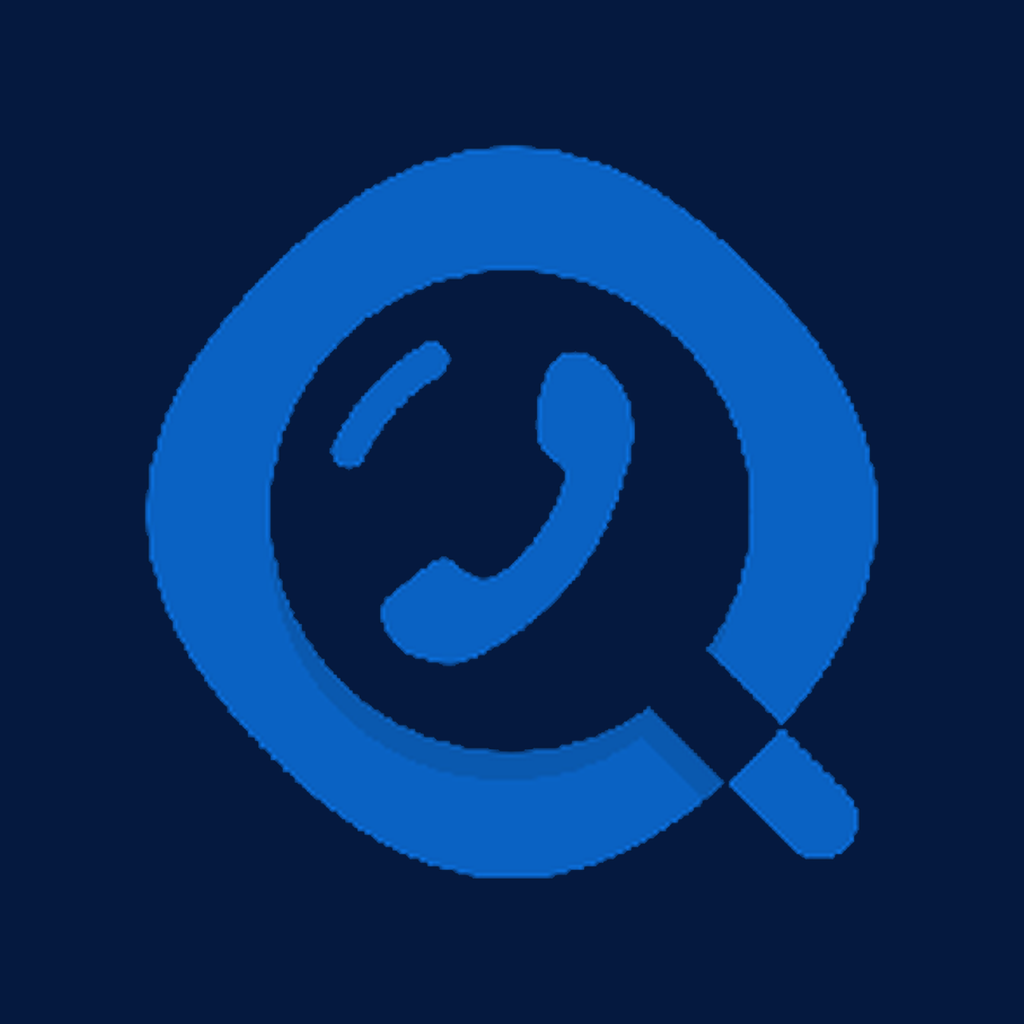
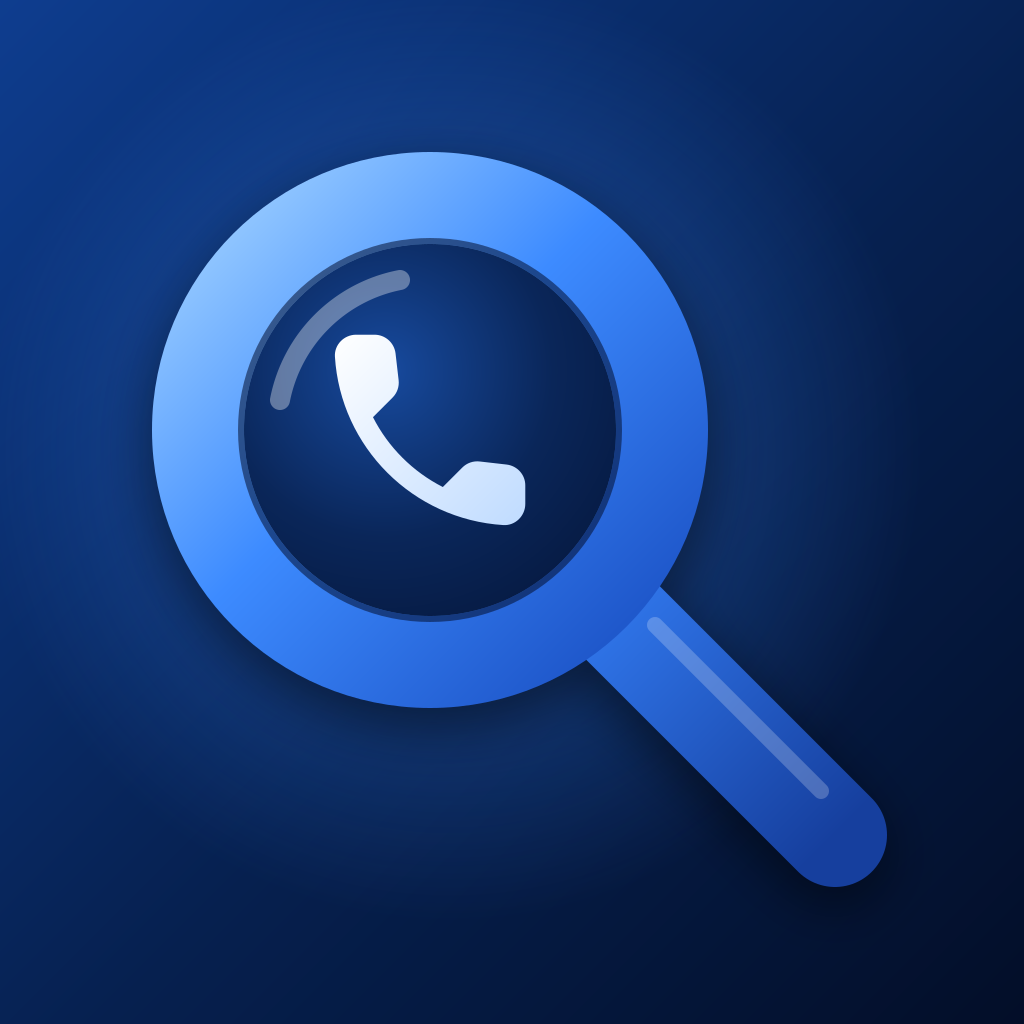
Yangi ikonka va yuklash ekrani (vektordan, yuqori sifat)
- tool/make_icons.py: lupa + go'shak belgisini SVG'dan 1024px ga yasaydi
- iOS: icon_ios.png (RGB, shaffofliksiz)
- Android: adaptiv ikonka uchun alohida old qatlam va gradient fon
- splash_logo.png: Inter shrifti, fon #05193F bilan bir xil

Claude-Session: https://claude.ai/code/session_01C6ioWyqxUh5f1tL6mQytvS

diff --git a/tool/make_icons.py b/tool/make_icons.py
@@ -1,0 +1,201 @@
+#!/usr/bin/env python3
+"""Ilova ikonkalari va yuklash ekrani rasmini vektordan yasaydi.
+
+Ishlatish (loyiha ildizidan):
+    pip install cairosvg pillow
+    python3 tool/make_icons.py
+
+Natija (assets/):
+    icon_ios.png        1024x1024, RGB — iOS ikonkasi (shaffofliksiz)
+    icon.png            1024x1024, RGB — Android oddiy ikonkasi
+    icon_android_fg.png 1024x1024, RGBA — Android adaptiv ikonkasi (old qatlam)
+    icon_android_bg.png 1024x1024, RGB — Android adaptiv ikonkasi (fon)
+    splash_logo.png     1024x1024, RGB — yuklash ekrani (fon #05193F)
+
+Belgi: lupa ichida telefon go'shagi. Go'shak shakli Material Icons
+("call", rounded) dan olingan — Apache 2.0 litsenziyasi.
+"""
+
+import io
+import os
+import sys
+
+import cairosvg
+from PIL import Image, ImageDraw, ImageFilter, ImageFont
+
+SIZE = 1024
+ROOT = os.path.dirname(os.path.dirname(os.path.abspath(__file__)))
+ASSETS = os.path.join(ROOT, 'assets')
+
+SPLASH_BG = (0x05, 0x19, 0x3F)  # pubspec.yaml: flutter_native_splash.color
+
+# Material Icons "call" (rounded), 24x24
+HANDSET = (
+    'M19.23 15.26l-2.54-.29c-.61-.07-1.21.14-1.64.57l-1.84 1.84'
+    'c-2.83-1.44-5.15-3.75-6.59-6.59l1.85-1.85c.43-.43.64-1.03.57-1.64'
+    'l-.29-2.52c-.12-1.01-.97-1.77-1.99-1.77H5.03c-1.13 0-2.07.94-2 2.07'
+    '.53 8.54 7.36 15.36 15.89 15.89 1.13.07 2.07-.87 2.07-2v-1.73'
+    'c.01-1.01-.75-1.86-1.76-1.98z'
+)
+
+
+def glyph_svg(cx=430, cy=430):
+    """Lupa + go'shak, shaffof fonda. (cx, cy) — linza markazi."""
+    r_ring = 232      # halqa chizig'ining o'rtasi
+    w_ring = 92       # halqa qalinligi
+    r_lens = r_ring - w_ring / 2
+
+    # Dasta — 45° burchakda pastga-o'ngga
+    h0 = (cx + 185, cy + 185)
+    h1 = (cx + 405, cy + 405)
+
+    # Go'shak: 24 birlik → ~240 px, linza markazida
+    s = 10.6
+    tx, ty = cx - 12 * s, cy - 12 * s
+
+    return f'''<svg xmlns="http://www.w3.org/2000/svg" width="{SIZE}" height="{SIZE}" viewBox="0 0 {SIZE} {SIZE}">
+  <defs>
+    <linearGradient id="ring" x1="0" y1="0" x2="1" y2="1">
+      <stop offset="0" stop-color="#9FD0FF"/>
+      <stop offset="0.45" stop-color="#3D8BFF"/>
+      <stop offset="1" stop-color="#1A4FC2"/>
+    </linearGradient>
+    <linearGradient id="handle" x1="0" y1="0" x2="1" y2="1">
+      <stop offset="0" stop-color="#2F74E8"/>
+      <stop offset="1" stop-color="#163F9E"/>
+    </linearGradient>
+    <radialGradient id="lens" cx="0.38" cy="0.34" r="0.75">
+      <stop offset="0" stop-color="#174A9E"/>
+      <stop offset="0.6" stop-color="#0A2659"/>
+      <stop offset="1" stop-color="#061A42"/>
+    </radialGradient>
+    <linearGradient id="phone" x1="0" y1="0" x2="1" y2="1">
+      <stop offset="0" stop-color="#FFFFFF"/>
+      <stop offset="1" stop-color="#BFDBFF"/>
+    </linearGradient>
+  </defs>
+
+  <!-- dasta (halqa ostida) -->
+  <line x1="{h0[0]}" y1="{h0[1]}" x2="{h1[0]}" y2="{h1[1]}"
+        stroke="url(#handle)" stroke-width="104" stroke-linecap="round"/>
+  <!-- dasta ustidagi yorug' chiziq -->
+  <line x1="{h0[0] + 40}" y1="{h0[1] + 10}" x2="{h1[0] - 14}" y2="{h1[1] - 44}"
+        stroke="#FFFFFF" stroke-opacity="0.22" stroke-width="16" stroke-linecap="round"/>
+
+  <!-- linza shishasi -->
+  <circle cx="{cx}" cy="{cy}" r="{r_lens}" fill="url(#lens)"/>
+
+  <!-- halqa -->
+  <circle cx="{cx}" cy="{cy}" r="{r_ring}" fill="none"
+          stroke="url(#ring)" stroke-width="{w_ring}"/>
+  <!-- halqaning ichki chekkasi (chuqurlik) -->
+  <circle cx="{cx}" cy="{cy}" r="{r_lens + 3}" fill="none"
+          stroke="#031030" stroke-opacity="0.55" stroke-width="6"/>
+
+  <!-- shishadagi aks -->
+  <path d="M {cx - 150} {cy - 30} A 152 152 0 0 1 {cx - 30} {cy - 150}"
+        fill="none" stroke="#FFFFFF" stroke-opacity="0.35"
+        stroke-width="20" stroke-linecap="round"/>
+
+  <!-- go'shak -->
+  <g transform="translate({tx} {ty}) scale({s})">
+    <path d="{HANDSET}" fill="url(#phone)"/>
+  </g>
+</svg>'''
+
+
+BG_SVG = f'''<svg xmlns="http://www.w3.org/2000/svg" width="{SIZE}" height="{SIZE}" viewBox="0 0 {SIZE} {SIZE}">
+  <defs>
+    <linearGradient id="bg" x1="0" y1="0" x2="1" y2="1">
+      <stop offset="0" stop-color="#0E3D8F"/>
+      <stop offset="0.55" stop-color="#06204F"/>
+      <stop offset="1" stop-color="#030E28"/>
+    </linearGradient>
+    <radialGradient id="glow" cx="0.44" cy="0.44" r="0.46">
+      <stop offset="0" stop-color="#3D8BFF" stop-opacity="0.45"/>
+      <stop offset="1" stop-color="#3D8BFF" stop-opacity="0"/>
+    </radialGradient>
+  </defs>
+  <rect width="{SIZE}" height="{SIZE}" fill="url(#bg)"/>
+  <rect width="{SIZE}" height="{SIZE}" fill="url(#glow)"/>
+</svg>'''
+
+
+def render(svg):
+    png = cairosvg.svg2png(bytestring=svg.encode('utf-8'),
+                           output_width=SIZE, output_height=SIZE)
+    return Image.open(io.BytesIO(png)).convert('RGBA')
+
+
+def with_shadow(glyph, offset=18, blur=26, opacity=0.5):
+    """Belgi ostiga yumshoq soya qo'shadi (cairosvg blur qila olmaydi)."""
+    alpha = glyph.getchannel('A')
+    shadow = Image.new('RGBA', glyph.size, (0, 0, 0, 0))
+    shadow.putalpha(alpha.point(lambda a: int(a * opacity)))
+    shadow = shadow.filter(ImageFilter.GaussianBlur(blur))
+    canvas = Image.new('RGBA', glyph.size, (0, 0, 0, 0))
+    canvas.alpha_composite(shadow, (0, offset))
+    canvas.alpha_composite(glyph)
+    return canvas
+
+
+def scaled(img, factor, center_shift=(0, 0)):
+    """Rasmni markaz bo'yicha kichraytirib, shu o'lchamdagi tuvalga qo'yadi."""
+    w = int(SIZE * factor)
+    small = img.resize((w, w), Image.LANCZOS)
+    out = Image.new('RGBA', (SIZE, SIZE), (0, 0, 0, 0))
+    pos = ((SIZE - w) // 2 + center_shift[0], (SIZE - w) // 2 + center_shift[1])
+    out.alpha_composite(small, pos)
+    return out
+
+
+def font(names, size):
+    for n in names:
+        try:
+            return ImageFont.truetype(n, size)
+        except OSError:
+            continue
+    return ImageFont.load_default()
+
+
+def main():
+    os.makedirs(ASSETS, exist_ok=True)
+
+    bg = render(BG_SVG)
+    glyph = with_shadow(render(glyph_svg()))
+
+    # ── iOS va oddiy Android ikonkasi: to'liq kvadrat, shaffofliksiz ──
+    icon = bg.copy()
+    icon.alpha_composite(glyph)
+    icon = icon.convert('RGB')
+    icon.save(os.path.join(ASSETS, 'icon_ios.png'), optimize=True)
+    icon.save(os.path.join(ASSETS, 'icon.png'), optimize=True)
+
+    # ── Android adaptiv ikonkasi ──
+    # Ko'rinadigan xavfsiz doira — tuvalning ~61% i. Belgining eng uzoq
+    # nuqtasi (dasta uchi) shu doiradan chiqmasligi uchun 0.60 ga kichraytiramiz.
+    fg = scaled(glyph, 0.60)
+    fg.save(os.path.join(ASSETS, 'icon_android_fg.png'), optimize=True)
+    bg.convert('RGB').save(os.path.join(ASSETS, 'icon_android_bg.png'), optimize=True)
+
+    # ── Yuklash ekrani: bir xil rangli fon (#05193F), belgi + nom ──
+    splash = Image.new('RGBA', (SIZE, SIZE), SPLASH_BG + (255,))
+    halo = Image.new('RGBA', (SIZE, SIZE), (0, 0, 0, 0))
+    ImageDraw.Draw(halo).ellipse((282, 92, 742, 552), fill=(61, 139, 255, 70))
+    splash.alpha_composite(halo.filter(ImageFilter.GaussianBlur(70)))
+    splash.alpha_composite(scaled(glyph, 0.46, center_shift=(0, -190)))
+
+    d = ImageDraw.Draw(splash)
+    title = font(['Inter-Bold.ttf', 'Inter Bold', '/usr/share/fonts/opentype/inter/Inter-Bold.otf',
+                  'DejaVuSans-Bold.ttf'], 104)
+    sub = font(['Inter-Medium.ttf', 'Inter Medium', '/usr/share/fonts/opentype/inter/Inter-Medium.otf',
+                'DejaVuSans.ttf'], 44)
+    d.text((SIZE / 2, 668), 'Getcontact', font=title, fill=(255, 255, 255), anchor='mm')
+    d.text((SIZE / 2, 752), "Ma'lumotlar qidiruvi", font=sub, fill=(140, 184, 242), anchor='mm')
+    splash.convert('RGB').save(os.path.join(ASSETS, 'splash_logo.png'), optimize=True)
+
+    print('Tayyor:', ', '.join(sorted(f for f in os.listdir(ASSETS) if f.endswith('.png'))))
+
+
+if __name__ == '__main__':
+    sys.exit(main())
